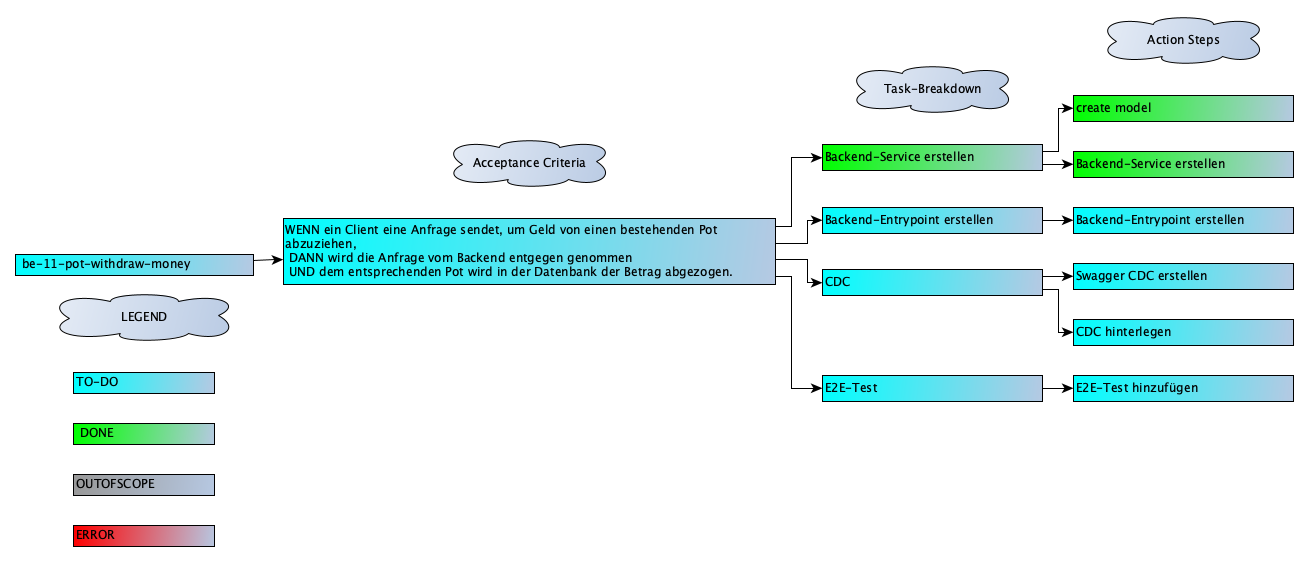
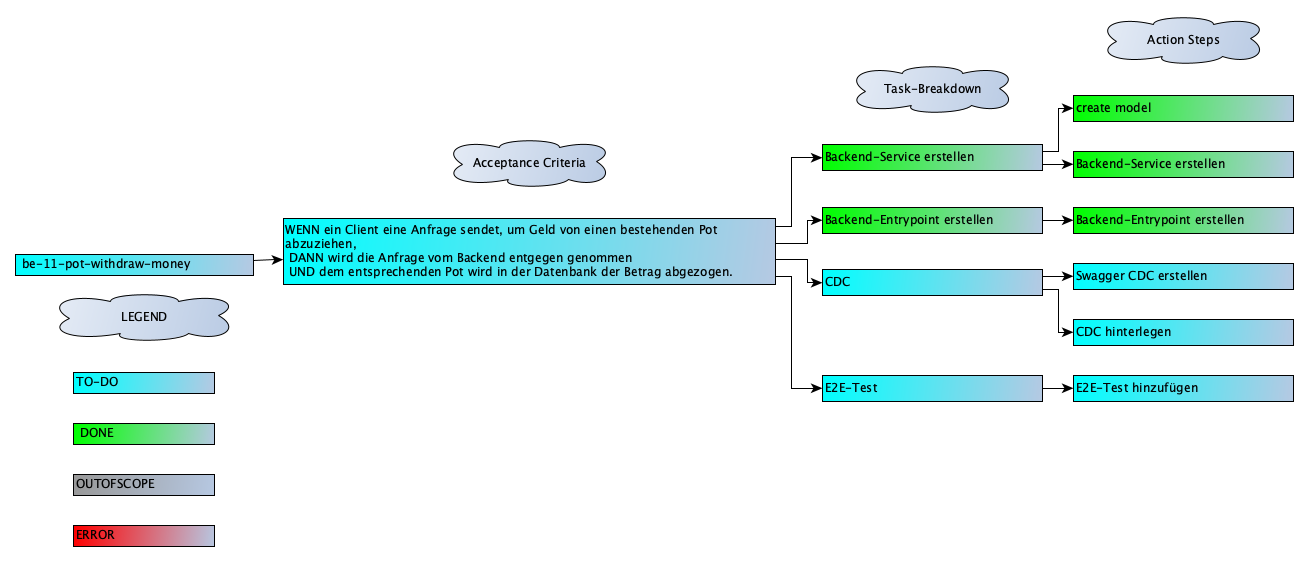
be-11 add entrypoint withdrawMoneyFromPot

Changed region(s): [[0.6112, 0.3636, 0.9778, 0.4242]]

diff --git a/backend/src/apis/pots/pots.controller.spec.ts b/backend/src/apis/pots/pots.controller.spec.ts
@@ -6,6 +6,7 @@ import { NotFoundException } from '@nestjs/common';
 import { APIPotNameDTO } from '../../model/apis/APIPotNameDTO';
 import { APIPotAdditionDTO } from '../../model/apis/APIPotAdditionDTO';
 import { APIPotDTO } from '../../model/apis/APIPotDTO';
+import { APIPotSubtractionDTO } from '../../model/apis/APIPotSubtractionDTO';
 
 jest.mock('./pots.service', (): { PotsService: jest.Mock } => ({
   PotsService: jest.fn().mockImplementation(
@@ -15,12 +16,14 @@ jest.mock('./pots.service', (): { PotsService: jest.Mock } => ({
       editPot: jest.Mock;
       deletePot: jest.Mock;
       addMoneyToPot: jest.Mock;
+      withdrawMoneyFromPot: jest.Mock;
     } => ({
       findAll: jest.fn(),
       addNewPot: jest.fn(),
       editPot: jest.fn(),
       deletePot: jest.fn(),
       addMoneyToPot: jest.fn(),
+      withdrawMoneyFromPot: jest.fn(),
     }),
   ),
 }));
@@ -51,6 +54,12 @@ const mockedPotAddition: APIPotAdditionDTO = {
   amountToAdd,
 };
 
+const amountToSubtract: number = 1000;
+const mockedPotSubtraction: APIPotSubtractionDTO = {
+  potName: mockedPots[0].name,
+  amountToSubtract,
+};
+
 const mockedPotName: APIPotNameDTO = {
   potName: mockedPots[0].name,
 };
@@ -70,6 +79,10 @@ describe('PotsController', (): void => {
     (potsService.addNewPot as jest.Mock).mockResolvedValue(undefined);
     (potsService.editPot as jest.Mock).mockResolvedValue(undefined);
     (potsService.deletePot as jest.Mock).mockResolvedValue(undefined);
+    (potsService.addMoneyToPot as jest.Mock).mockResolvedValue(undefined);
+    (potsService.withdrawMoneyFromPot as jest.Mock).mockResolvedValue(
+      undefined,
+    );
 
     controller = module.get<PotsController>(PotsController);
   });
@@ -176,7 +189,7 @@ describe('PotsController', (): void => {
     expect(potsService.addMoneyToPot).toHaveBeenCalledWith(mockedPotAddition);
   });
 
-  it('throws if editing pot call fails', async (): Promise<void> => {
+  it('throws if adding pot call fails', async (): Promise<void> => {
     (potsService.addMoneyToPot as jest.Mock).mockImplementation((): void => {
       throw new Error('Service failure');
     });
@@ -186,13 +199,47 @@ describe('PotsController', (): void => {
     ).rejects.toThrow('Error while adding money to pot: Service failure');
   });
 
-  it('throws NotFoundException if finding pot fails', async (): Promise<void> => {
+  it('throws NotFoundException if finding pot to add to fails', async (): Promise<void> => {
     (potsService.addMoneyToPot as jest.Mock).mockImplementation((): void => {
       throw new NotFoundException('Service failure');
     });
 
     await expect(() =>
       controller.addMoneyToPot(mockedPotAddition),
+    ).rejects.toThrow('Pot not found.');
+  });
+
+  it('withdraws money from an existing pot', async (): Promise<void> => {
+    await controller.withdrawMoneyFromPot(mockedPotSubtraction);
+
+    expect(potsService.withdrawMoneyFromPot).toHaveBeenCalledWith(
+      mockedPotSubtraction,
+    );
+  });
+
+  it('throws if withdrawing pot call fails', async (): Promise<void> => {
+    (potsService.withdrawMoneyFromPot as jest.Mock).mockImplementation(
+      (): void => {
+        throw new Error('Service failure');
+      },
+    );
+
+    await expect(() =>
+      controller.withdrawMoneyFromPot(mockedPotSubtraction),
+    ).rejects.toThrow(
+      'Error while withdrawing money from pot: Service failure',
+    );
+  });
+
+  it('throws NotFoundException if finding pot to withdraw from fails', async (): Promise<void> => {
+    (potsService.withdrawMoneyFromPot as jest.Mock).mockImplementation(
+      (): void => {
+        throw new NotFoundException('Service failure');
+      },
+    );
+
+    await expect(() =>
+      controller.withdrawMoneyFromPot(mockedPotSubtraction),
     ).rejects.toThrow('Pot not found.');
   });
 });

diff --git a/backend/src/apis/pots/pots.controller.ts b/backend/src/apis/pots/pots.controller.ts
@@ -16,6 +16,7 @@ import { ApiOperation, ApiResponse } from '@nestjs/swagger';
 import { APIEditedPotDTO } from '../../model/apis/APIEditedPotDTO';
 import { APIPotNameDTO } from '../../model/apis/APIPotNameDTO';
 import { APIPotAdditionDTO } from '../../model/apis/APIPotAdditionDTO';
+import { APIPotSubtractionDTO } from '../../model/apis/APIPotSubtractionDTO';
 
 @Controller('pots')
 export class PotsController {
@@ -125,14 +126,14 @@ export class PotsController {
   }
 
   @Put('addMoneyToPot')
-  @ApiOperation({ summary: 'Add Money to an existing pot' })
+  @ApiOperation({ summary: 'Add money to an existing pot' })
   @ApiResponse({
     status: HttpStatus.OK,
     description: 'Money successfully added to Pot.',
   })
   @ApiResponse({
     status: HttpStatus.NOT_FOUND,
-    description: 'Pot not found',
+    description: 'Pot not found.',
   })
   @ApiResponse({
     status: HttpStatus.INTERNAL_SERVER_ERROR,
@@ -147,6 +148,32 @@ export class PotsController {
       }
       throw new InternalServerErrorException(
         `Error while adding money to pot: ${error.message}`,
+      );
+    }
+  }
+
+  @Put('withdrawMoneyFromPot')
+  @ApiOperation({ summary: 'Withdraw money from an existing pot' })
+  @ApiResponse({
+    status: HttpStatus.OK,
+    description: 'Money successfully withdrawned from Pot.',
+  })
+  @ApiResponse({ status: HttpStatus.NOT_FOUND, description: 'Pot not found.' })
+  @ApiResponse({
+    status: HttpStatus.INTERNAL_SERVER_ERROR,
+    description: 'Server error occurred while withdrawing money from pot.',
+  })
+  async withdrawMoneyFromPot(
+    @Body() potSubtraction: APIPotSubtractionDTO,
+  ): Promise<void> {
+    try {
+      await this.potsService.withdrawMoneyFromPot(potSubtraction);
+    } catch (error) {
+      if (error instanceof NotFoundException) {
+        throw new NotFoundException('Pot not found.');
+      }
+      throw new InternalServerErrorException(
+        `Error while withdrawing money from pot: ${error.message}`,
       );
     }
   }
